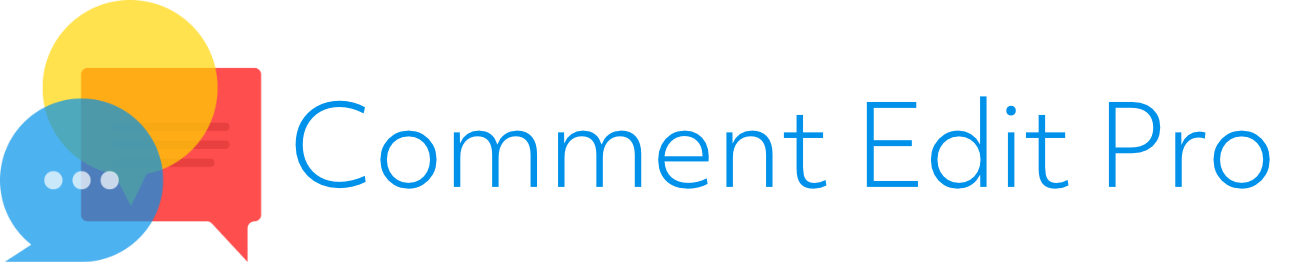
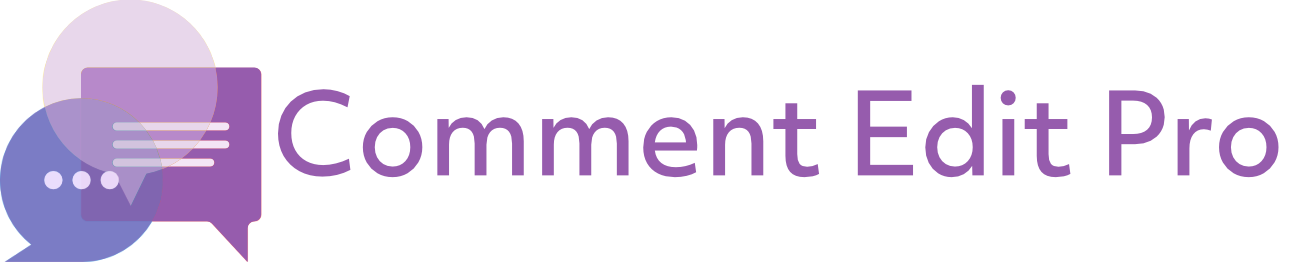
Adding integration tab and refreshing admin.

Changed region(s): [[0.0, 0.0, 0.9907, 1.0]]

diff --git a/dist/admin.css b/dist/admin.css
@@ -1,1 +1,1 @@
-.sce-button{padding:10px 20px;border-radius:5px;background:#722727;color:#fff;cursor:pointer;border:1px solid #e0e4e9;transition:background-color .5s ease;text-decoration:none;display:inline-block;vertical-align:middle;font-size:14px}.sce-button:hover{color:#fff !important;background:#983434}.sce-button.sce-button-info{background:#6c757d;color:#fff}.sce-button.sce-button-info:hover{background:#868e96}.sce-button.sce-button-danger{background:#721c24;color:#fff}.sce-button.sce-button-danger:hover{background:#9b2631}.sce-button.sce-button-edit{background:#f8f9fa;color:#000}.sce-button.sce-button-edit:hover{background:#fff}.sce-button.sce-button-delete{background:#721c24;color:#fff}.sce-button.sce-button-delete:hover{background:#9b2631}.sce-button.sce-button-lg{padding:20px 30px;font-size:2em}.sce-button.sce-button-save{background:#22721c;color:#fff}.sce-button.sce-button-save:hover{color:#fff;background:#2e9b26}.sce-button .sce-icon-button{text-align:middle;display:inline-block;width:16px;height:16px}.sce-button svg{width:16px;height:16px;vertical-align:middle}.sce-button .sce-icon-yellow{color:#f52a39}h3.sce-panel-heading{color:#6c757d;font-size:1.8em;font-weight:700;padding-bottom:2px;margin:0;padding-bottom:.7em;line-height:1.3}.sce-admin-panel-area{position:relative;background-color:#fff;border:1px solid #ddd;box-shadow:1px 1px 7px 2px rgba(221,221,221,.6);padding:20px;margin-top:25px}.sce-panel-row{margin-bottom:15px}.sce-panel-row:last-of-type{margin-bottom:0}.sce-admin-logo img{width:100%;max-width:350px;display:inline-block}#sce-options-logo{max-width:250px;display:inline-block;width:100%;height:auto}.sce-admin-panel-area svg{width:20px;height:20px;vertical-align:middle}.nav-tab-wrapper .sce-icon-tab{display:inline-block;vertical-align:middle;width:25px;height:25px;opacity:.7;margin-right:5px;color:#9d9d9d}.nav-tab-wrapper .nav-tab-active .sce-icon-tab{color:#919191}
+#wpcontent{padding-left:0 !important;padding-right:0 !important;position:relative}#wpcontent #comment-edit-pro-header{margin:0}#wpcontent header{background:#fff;padding:1.1rem;overflow:hidden;margin:0 !important;border-bottom:2px solid #9c68b0}#wpcontent .sce-settings-tabs{padding:1.1rem}#wpcontent .nav-tab-wrapper .sce-icon-tab{color:#bd9aca}#wpcontent .nav-tab-wrapper .nav-tab-active .sce-icon-tab{color:#9c68b0}#wpcontent .sce-panel-row h2{font-size:24px;color:#9c68b0}#wpcontent .sce-main-help,#wpcontent .sce-edit-count{font-size:14px}#wpfooter{display:none}.sce-button{padding:10px 20px;border-radius:5px;background:#722727;color:#fff;cursor:pointer;border:1px solid #e0e4e9;transition:background-color .5s ease;text-decoration:none;display:inline-block;vertical-align:middle;font-size:14px}.sce-button:hover{color:#fff !important;background:#983434}.sce-button.sce-button-info{background:#6c757d;color:#fff}.sce-button.sce-button-info:hover{background:#868e96}.sce-button.sce-button-danger{background:#721c24;color:#fff}.sce-button.sce-button-danger:hover{background:#9b2631}.sce-button.sce-button-edit{background:#f8f9fa;color:#000}.sce-button.sce-button-edit:hover{background:#fff}.sce-button.sce-button-delete{background:#721c24;color:#fff}.sce-button.sce-button-delete:hover{background:#9b2631}.sce-button.sce-button-lg{padding:20px 30px;font-size:2em}.sce-button.sce-button-save{background:#22721c;color:#fff}.sce-button.sce-button-save:hover{color:#fff;background:#2e9b26}.sce-button .sce-icon-button{text-align:middle;display:inline-block;width:16px;height:16px}.sce-button svg{width:16px;height:16px;vertical-align:middle}.sce-button .sce-icon-yellow{color:#f52a39}h3.sce-panel-heading{color:#6c757d;font-size:1.8em;font-weight:700;padding-bottom:2px;margin:0;padding-bottom:.7em;line-height:1.3}.sce-admin-panel-area{position:relative;background-color:#fff;border:1px solid #ddd;box-shadow:1px 1px 7px 2px rgba(221,221,221,.6);padding:20px;margin-top:25px}.sce-panel-row{margin-bottom:15px}.sce-panel-row:last-of-type{margin-bottom:0}.sce-admin-logo img{width:100%;max-width:450px;display:inline-block}.sce-info-text{font-weight:500;font-size:18px}#sce-options-logo{max-width:250px;display:inline-block;width:100%;height:auto}.sce-admin-panel-area svg{width:20px;height:20px;vertical-align:middle}.nav-tab-wrapper .sce-icon-tab{display:inline-block;vertical-align:middle;width:25px;height:25px;opacity:.7;margin-right:5px;color:#9d9d9d}.nav-tab-wrapper .nav-tab-active .sce-icon-tab{color:#919191}

diff --git a/css/admin.scss b/css/admin.scss
@@ -1,4 +1,5 @@
 $base_color: #58a0db;
+$admin_light_purple: #9c68b0;
 $admin_color_panel_background: #fff;
 $border_color_light: #ddd;
 $admin_logo_color: #b01b1b;
@@ -40,6 +41,45 @@ $delete_button_color_text: #fff;
 $danger_button_color: #721c24;
 $danger_button_color_text: #fff;
 
+#wpcontent {
+	padding-left: 0 !important;
+	padding-right: 0 !important;
+	position: relative;
+
+	#comment-edit-pro-header {
+		margin: 0;
+	}
+
+	header {
+		background: $admin_color_panel_background;
+		padding: 1.1rem;
+		overflow: hidden;
+		margin: 0 !important;
+		border-bottom: 2px solid $admin_light_purple;
+	}
+	.sce-settings-tabs {
+		padding: 1.1rem;
+	}
+
+	.nav-tab-wrapper .sce-icon-tab {
+		color: lighten( $admin_light_purple, 15% );
+	}
+	.nav-tab-wrapper .nav-tab-active .sce-icon-tab {
+		color: $admin_light_purple;
+	}
+
+	.sce-panel-row h2 {
+		font-size: 24px;
+		color: $admin_light_purple;
+	}
+	.sce-main-help, .sce-edit-count {
+		font-size: 14px;
+	}
+}
+
+#wpfooter {
+	display: none;
+}
 
 
 /* Button Options */
@@ -144,10 +184,14 @@ h3.sce-panel-heading {
 	
 	img {
 		width: 100%;
-		max-width: 350px;
+		max-width: 450px;
 		display: inline-block;
 		
 	}
+}
+.sce-info-text {
+	font-weight: 500;
+	font-size: 18px;
 }
 
 #sce-options-logo {

diff --git a/gruntfile.js b/gruntfile.js
@@ -3,10 +3,10 @@ module.exports = function (grunt) {
 		compress: {
 			main: {
 			  options: {
-				archive: 'simple-comment-editing-options.zip'
+				archive: 'comment-edit-pro.zip'
 			  },
 			  files: [
-				{src: ['simple-comment-editing-options.php'], dest: '/', filter: 'isFile'}, // includes files in path
+				{src: ['comment-edit-pro.php'], dest: '/', filter: 'isFile'}, // includes files in path
 				{src: ['uninstall.php'], dest: '/', filter: 'isFile'}, // includes files in path
 				{src: ['autoloader.php'], dest: '/', filter: 'isFile'}, // includes files in path
 				{src: ['dist/**'], dest: '/'}, // includes files in path and its subdirs

diff --git a/includes/class-admin-settings.php b/includes/class-admin-settings.php
@@ -25,12 +25,10 @@ class Admin_Settings {
 	 */
 	public static function settings_page() {
 		?>
-		<div class="wrap sce-settings-header">
-			<?php
-			self::get_settings_header();
-			?>
-		</div>
-		<div class="wrap sce-settings-tabs">
+		<?php
+		self::get_settings_header();
+		?>
+		<div class="sce-settings-tabs">
 			<?php
 			self::get_settings_tabs();
 			?>
@@ -46,11 +44,12 @@ class Admin_Settings {
 	 */
 	public static function get_settings_header() {
 		?>
-		<div class="wrap sce-admin-wrap">
+		<header id="comment-edit-pro-header" style="background-image: url(<?php echo esc_url( Functions::get_plugin_url( 'images/admin-header-bg.jpg' ) ); ?>); background-size: cover; background-repeat: no-repeat;">
 			<h1>
-				<a href="<?php echo esc_url( Functions::get_settings_url() ); ?>" class="sce-admin-logo"><img src="<?php echo esc_url( Functions::get_plugin_logo() ); ?>" alt="Simple Comment Editing" /></a>
+				<a href="<?php echo esc_url( Functions::get_settings_url() ); ?>" class="sce-admin-logo"><img src="<?php echo esc_url( Functions::get_plugin_logo() ); ?>" alt="Comment Edit Pro" /></a>
 			</h1>
 			<p class="sce-info-text"><?php esc_html_e( 'Supercharge your comment section by allowing your users to edit their comments.', 'comment-edit-pro' ); ?></p>
+		</header>
 		<?php
 	}
 
@@ -166,6 +165,9 @@ class Admin_Settings {
 			</symbol>
 			<symbol aria-hidden="true" data-prefix="fas" data-icon="star" xmlns="http://www.w3.org/2000/svg" viewBox="0 0 576 512" id="sce-star-icon">
 				<path fill="currentColor" d="M259.3 17.8L194 150.2 47.9 171.5c-26.2 3.8-36.7 36.1-17.7 54.6l105.7 103-25 145.5c-4.5 26.3 23.2 46 46.4 33.7L288 439.6l130.7 68.7c23.2 12.2 50.9-7.4 46.4-33.7l-25-145.5 105.7-103c19-18.5 8.5-50.8-17.7-54.6L382 150.2 316.7 17.8c-11.7-23.6-45.6-23.9-57.4 0z"></path>
+			</symbol>
+			<symbol aria-hidden="true" data-prefix="fas" data-icon="gear" xmlns="http://www.w3.org/2000/svg" viewBox="0 0 512 512" id="integrations">
+				<path fill="currentColor" d="M495.9 166.6C499.2 175.2 496.4 184.9 489.6 191.2L446.3 230.6C447.4 238.9 448 247.4 448 256C448 264.6 447.4 273.1 446.3 281.4L489.6 320.8C496.4 327.1 499.2 336.8 495.9 345.4C491.5 357.3 486.2 368.8 480.2 379.7L475.5 387.8C468.9 398.8 461.5 409.2 453.4 419.1C447.4 426.2 437.7 428.7 428.9 425.9L373.2 408.1C359.8 418.4 344.1 427 329.2 433.6L316.7 490.7C314.7 499.7 307.7 506.1 298.5 508.5C284.7 510.8 270.5 512 255.1 512C241.5 512 227.3 510.8 213.5 508.5C204.3 506.1 197.3 499.7 195.3 490.7L182.8 433.6C167 427 152.2 418.4 138.8 408.1L83.14 425.9C74.3 428.7 64.55 426.2 58.63 419.1C50.52 409.2 43.12 398.8 36.52 387.8L31.84 379.7C25.77 368.8 20.49 357.3 16.06 345.4C12.82 336.8 15.55 327.1 22.41 320.8L65.67 281.4C64.57 273.1 64 264.6 64 256C64 247.4 64.57 238.9 65.67 230.6L22.41 191.2C15.55 184.9 12.82 175.3 16.06 166.6C20.49 154.7 25.78 143.2 31.84 132.3L36.51 124.2C43.12 113.2 50.52 102.8 58.63 92.95C64.55 85.8 74.3 83.32 83.14 86.14L138.8 103.9C152.2 93.56 167 84.96 182.8 78.43L195.3 21.33C197.3 12.25 204.3 5.04 213.5 3.51C227.3 1.201 241.5 0 256 0C270.5 0 284.7 1.201 298.5 3.51C307.7 5.04 314.7 12.25 316.7 21.33L329.2 78.43C344.1 84.96 359.8 93.56 373.2 103.9L428.9 86.14C437.7 83.32 447.4 85.8 453.4 92.95C461.5 102.8 468.9 113.2 475.5 124.2L480.2 132.3C486.2 143.2 491.5 154.7 495.9 166.6V166.6zM256 336C300.2 336 336 300.2 336 255.1C336 211.8 300.2 175.1 256 175.1C211.8 175.1 176 211.8 176 255.1C176 300.2 211.8 336 256 336z"/>
 			</symbol>
 			<?php do_action( 'comment_edit_pro_add_admin_header_content' ); ?>
 		<?php

diff --git a/includes/admin-tabs/class-integrations.php b/includes/admin-tabs/class-integrations.php
@@ -1,0 +1,88 @@
+<?php
+/**
+ * Output main SCE tab.
+ *
+ * @package CommentEditPro
+ */
+
+namespace CommentEditPro\Includes\Admin_Tabs;
+
+if ( ! defined( 'ABSPATH' ) ) {
+	die( 'No direct access.' );
+}
+
+use CommentEditPro\Includes\Options as Options;
+use CommentEditPro\Includes\Functions as Functions;
+
+/**
+ * Output the main tab and content.
+ */
+class Integrations {
+	/**
+	 * Constructor.
+	 */
+	public function __construct() {
+		add_filter( 'comment_edit_pro_admin_tabs', array( $this, 'add_main_tab' ), 1, 1 );
+		add_filter( 'comment_edit_pro_admin_sub_tabs', array( $this, 'add_main_main_sub_tab' ), 1, 3 );
+		add_filter( 'comment_edit_pro_output_integrations', array( $this, 'output_main_content' ), 1, 3 );
+	}
+
+	/**
+	 * Add the main tab and callback actions.
+	 *
+	 * @param array $tabs Array of tabs.
+	 *
+	 * @return array of tabs.
+	 */
+	public function add_main_tab( $tabs ) {
+		$tabs[] = array(
+			'get'    => 'integrations',
+			'action' => 'comment_edit_pro_output_integrations',
+			'url'    => Functions::get_settings_url( 'integrations' ),
+			'label'  => _x( 'Integrations', 'Tab label as Main', 'ultimate-auto-updates' ),
+			'icon'   => 'integrations',
+		);
+		return $tabs;
+	}
+
+	/**
+	 * Add the main main tab and callback actions.
+	 *
+	 * @param array  $tabs        Array of tabs.
+	 * @param string $current_tab The current tab selected.
+	 * @param string $sub_tab     The current sub-tab selected.
+	 *
+	 * @return array of tabs.
+	 */
+	public function add_main_main_sub_tab( $tabs, $current_tab, $sub_tab ) {
+		if ( ( ! empty( $current_tab ) || ! empty( $sub_tab ) ) && 'main' !== $current_tab ) {
+			return $tabs;
+		}
+		return $tabs;
+	}
+
+	/**
+	 * Begin Main routing for the various outputs.
+	 *
+	 * @param string $tab     Main tab.
+	 * @param string $sub_tab Sub tab.
+	 */
+	public function output_main_content( $tab, $sub_tab = '' ) {
+		if ( 'integrations' === $tab ) {
+			if ( empty( $sub_tab ) || 'integrations' === $sub_tab ) {
+				?>
+				<div class="sce-admin-panel-area">
+					<div class="sce-panel-row">
+						Mailchimp
+					</div>
+				</div>
+				<div class="sce-admin-panel-area">
+					<div class="sce-panel-row">
+						Recaptcha
+					</div>
+				</div>
+				<?php
+			}
+		}
+	}
+}

diff --git a/includes/admin-tabs/class-main.php b/includes/admin-tabs/class-main.php
@@ -94,7 +94,32 @@ class Main {
 
 								$edit_count = $wpdb->get_var( $wpdb->prepare( "SELECT COUNT(*) FROM $tablename WHERE blog_id = %d", $blog_id ) ); // phpcs:ignore
 								?>
-								<p><?php esc_html_e( 'Your users have edited their comments', 'comment-edit-pro' ); ?> <?php echo number_format( $edit_count ); ?> <?php echo esc_html( _n( 'time', 'times', $edit_count, 'comment-edit-pro' ) ); ?>.</p>
+								<p class="sce-edit-count"><?php esc_html_e( 'Your users have edited their comments', 'comment-edit-pro' ); ?> <?php echo number_format( $edit_count ); ?> <?php echo esc_html( _n( 'time', 'times', $edit_count, 'comment-edit-pro' ) ); ?>.</p>
+								<div class="sce-main-help">
+									<?php
+									$options   = Options::get_options();
+									$user      = wp_get_current_user();
+									$user_id   = $user->ID;
+									$firstname = get_user_meta( $user_id, 'first_name', true );
+									$lastname  = get_user_meta( $user_id, 'last_name', true );
+									$website   = home_url();
+			
+									$support_url = add_query_arg(
+										array(
+											'firstname' => $firstname,
+											'lastname'  => $lastname,
+											'site'      => $website,
+											'email'     => $user->data->user_email,
+											'license'   => $options['license'],
+											'product'   => 'Comment Edit Pro',
+											'subject'   => 'Comment Edit Pro support',
+											'support'   => 'Yes',
+										),
+										'https://dlxplugins.com/support/'
+									);
+									?>
+									Need help? Please <a href="https://commenteditpro.dlxplugins.com/">visit our thorough documentation</a> and/or <a href="<?php echo esc_url_raw( $support_url ); ?>">reach out for support</a>.
+								</div>
 								<?php
 							}
 							?>

diff --git a/comment-edit-pro.php b/comment-edit-pro.php
@@ -211,7 +211,7 @@ class Comment_Edit_Pro {
 	 * @access public
 	 */
 	public function add_scripts() {
-		wp_enqueue_script( 'sce-options', plugins_url( '/js/simple-comment-editing-options.js', __FILE__ ), array( 'wp-hooks', 'comment-edit-pro' ), COMMENTEDITPRO_VERSION, true );
+		wp_enqueue_script( 'sce-options', plugins_url( '/js/simple-comment-editing-options.js', __FILE__ ), array( 'wp-hooks', 'simple-comment-editing' ), COMMENTEDITPRO_VERSION, true );
 		if ( Functions::is_multisite() ) {
 			$options = get_site_option( 'sce_options', false );
 		} else {

diff --git a/includes/admin-tabs/class-init-tabs.php b/includes/admin-tabs/class-init-tabs.php
@@ -18,6 +18,7 @@ class Init_Tabs {
 		new Main();
 		new Appearance();
 		new Translations();
+		new Integrations();
 		new License();
 		new Support();
 	}
